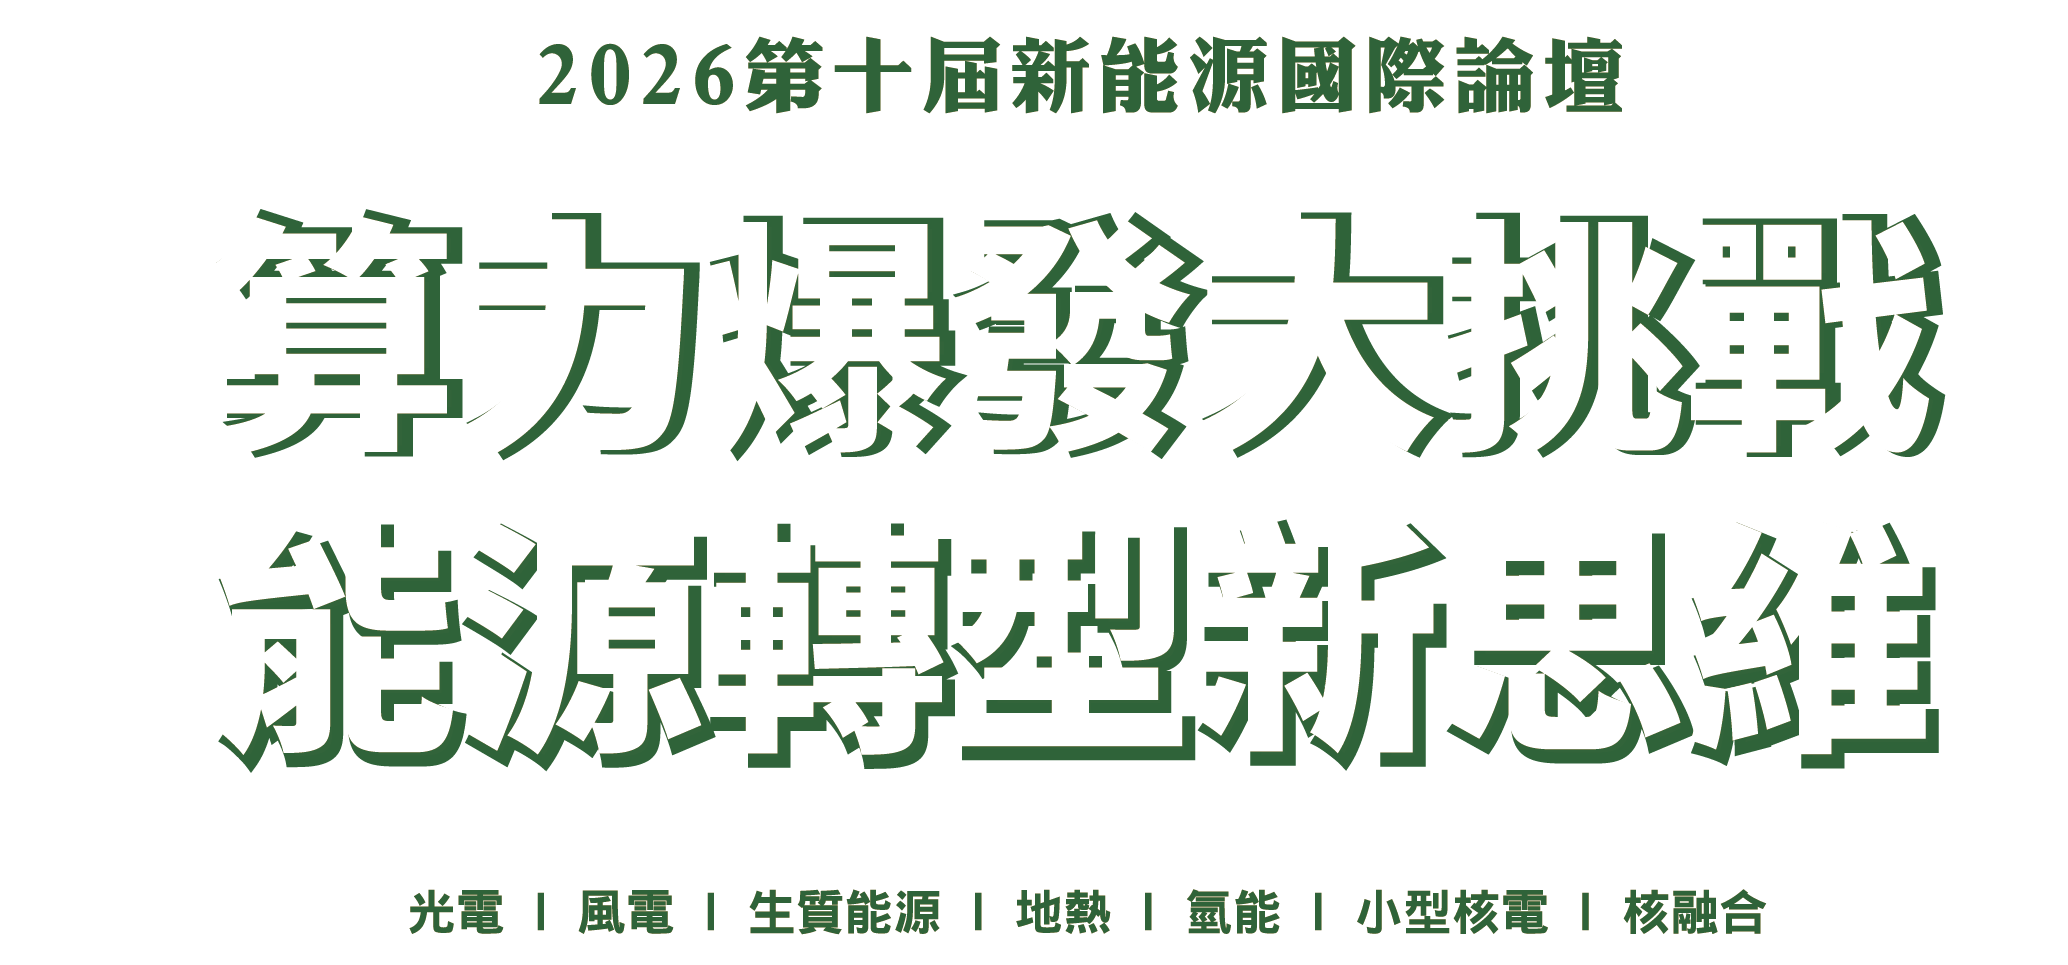
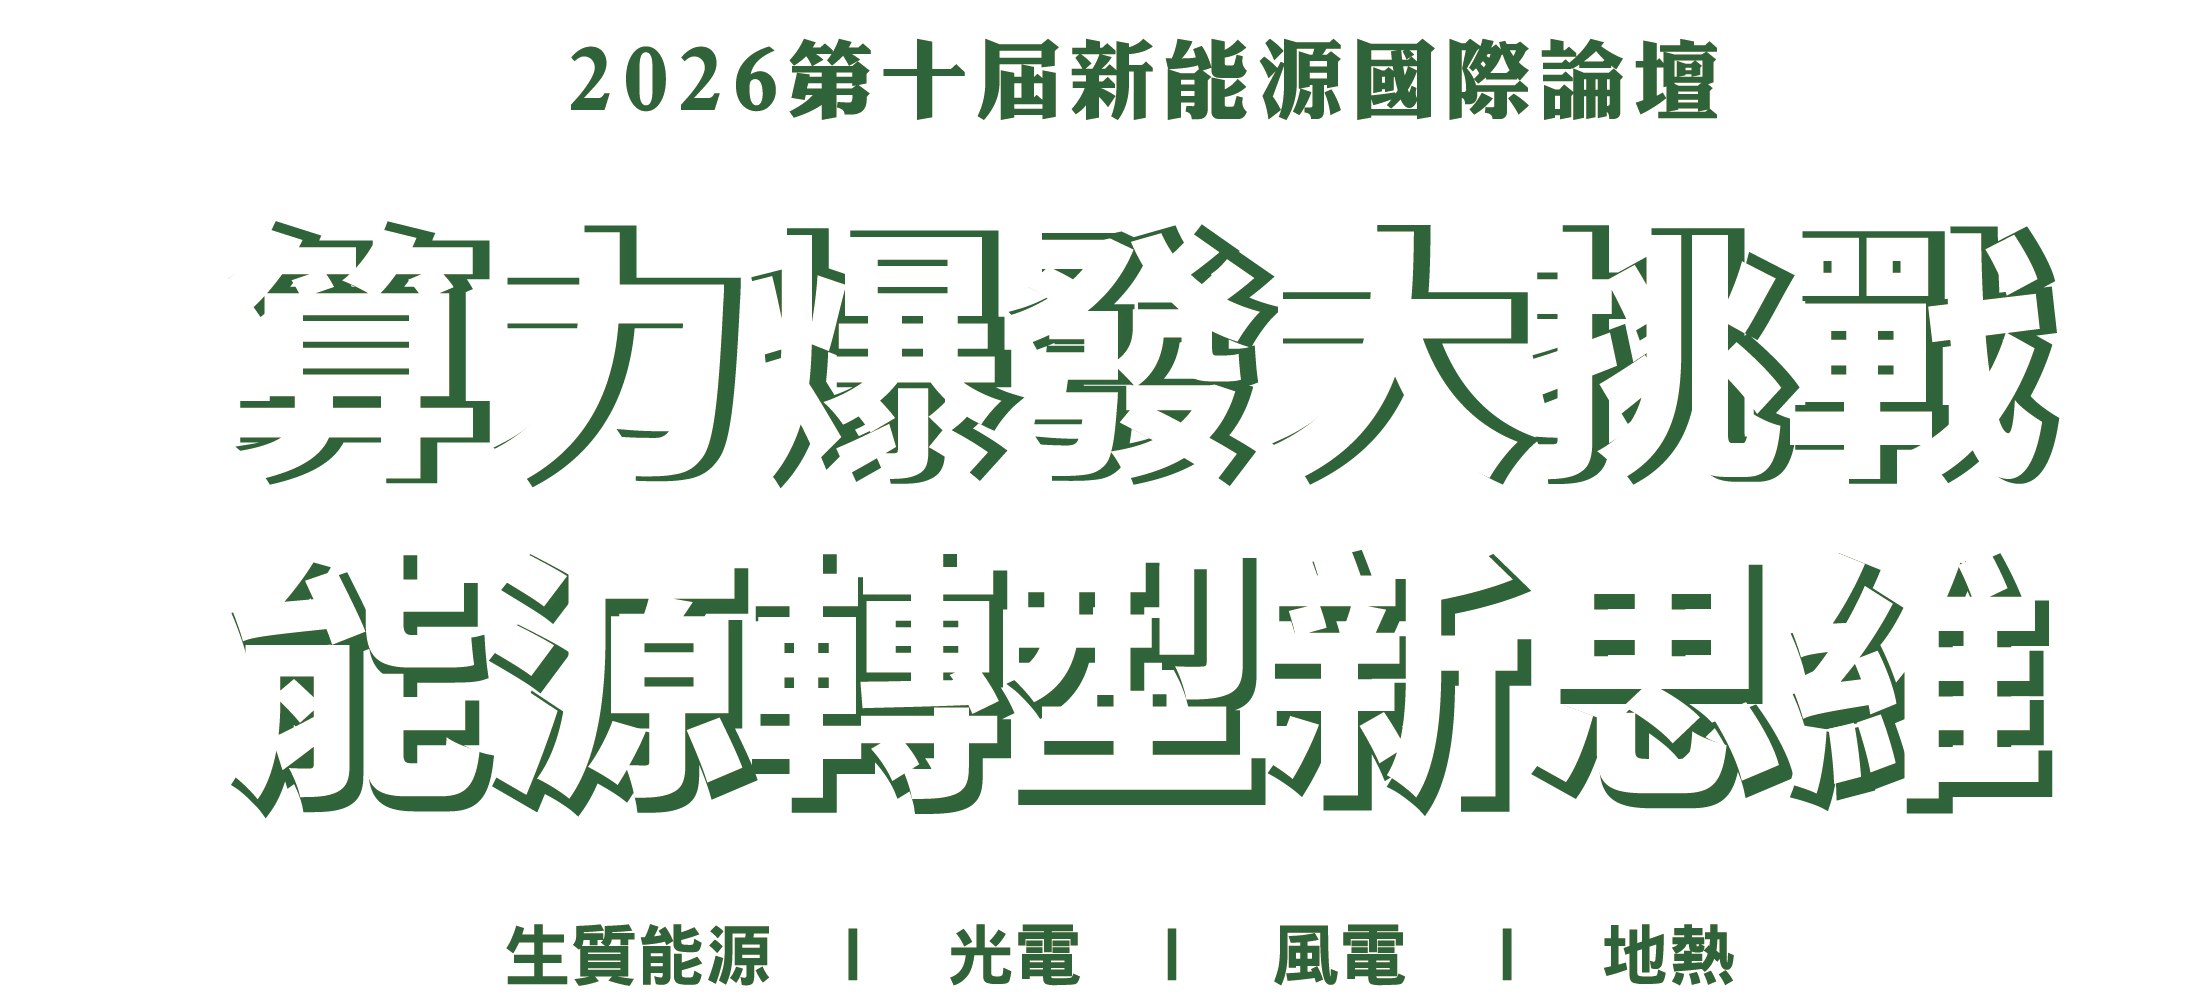
更新圖片資源，將bg1-phone.jpg替換為bg1-phone.png，並更新kv的背景圖片為kv.png

diff --git a/src/components/Kv.vue b/src/components/Kv.vue
@@ -39,7 +39,7 @@
             <img class="phonetext" :style="{ display: windowWidth < 1024 ? 'none' : 'none'}" src="../assets/image/phon-text.png" alt="2026今周刊第十屆新能源國際論壇主視覺標題">
         </div>
          <img src="../assets/image/scroll.png" alt="scroll_down" class="scroll_down"> 
-        <img class="bg1-phone" :style="{ display: windowWidth < 1024 ? 'block' : 'none'}" src="../assets/image/bg1-phone.jpg" alt="bg1-phone">
+        <img class="bg1-phone" :style="{ display: windowWidth < 1024 ? 'block' : 'none'}" src="../assets/image/bg1-phone.png" alt="bg1-phone">
     </div>
 </template>
 
@@ -49,7 +49,7 @@
         display: block;
         width: 100%;
         height: 100vh;
-        background: url('../assets/image/kv.jpg') center center no-repeat;
+        background: url('../assets/image/kv.png') center center no-repeat;
         background-size: cover;
     }
 
